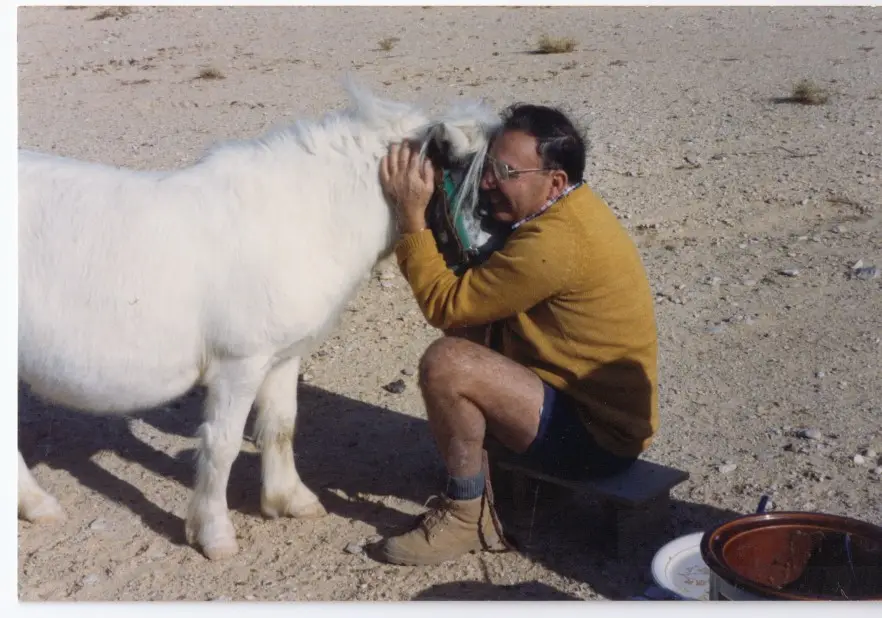
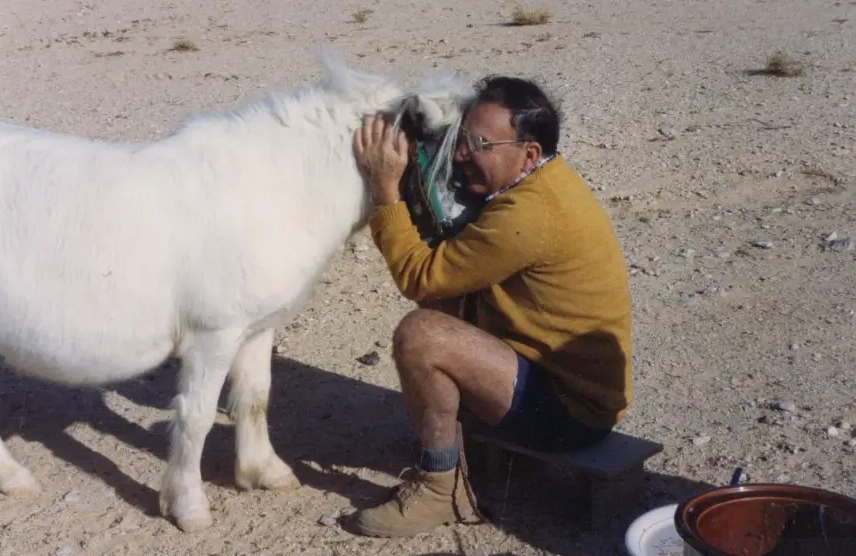
Replace shai-loving-hug photo with new version

diff --git a/images/gallery/gallery-data.js b/images/gallery/gallery-data.js
@@ -100,7 +100,7 @@ window.galleryPhotos = [
   { file: "gan-tamar-2013.webp", caption: "גן תמר, 2013" },
   { file: "shai-ruti-sugarloaf.webp", caption: "שי ורותי בהר הסוכר" },
   { file: "shai-ruti-bench.webp", caption: "שי ורותי על ספסל בגן" },
-  { file: "shai-loving-hug.webp", caption: "חיבוק אוהב" },
+  { file: "shai-loving-hug.webp", v: 2, caption: "חיבוק אוהב" },
   { file: "shai-street.webp", caption: "שי בן אליהו" },
   { file: "shai-portrait-3.webp", caption: "שי בן אליהו" },
   { file: "shai-dudu-hadas-bikes.webp", caption: "שי, דודו והדס על אופניים" },

diff --git a/gallery.html b/gallery.html
@@ -73,7 +73,7 @@
     <div class="photog reveal-stagger" id="galleryGrid"></div>
   </div>
 
-  <script src="images/gallery/gallery-data.js?v=44"></script>
+  <script src="images/gallery/gallery-data.js?v=45"></script>
   <script>
     (function(){
       var photos = window.galleryPhotos || [];
